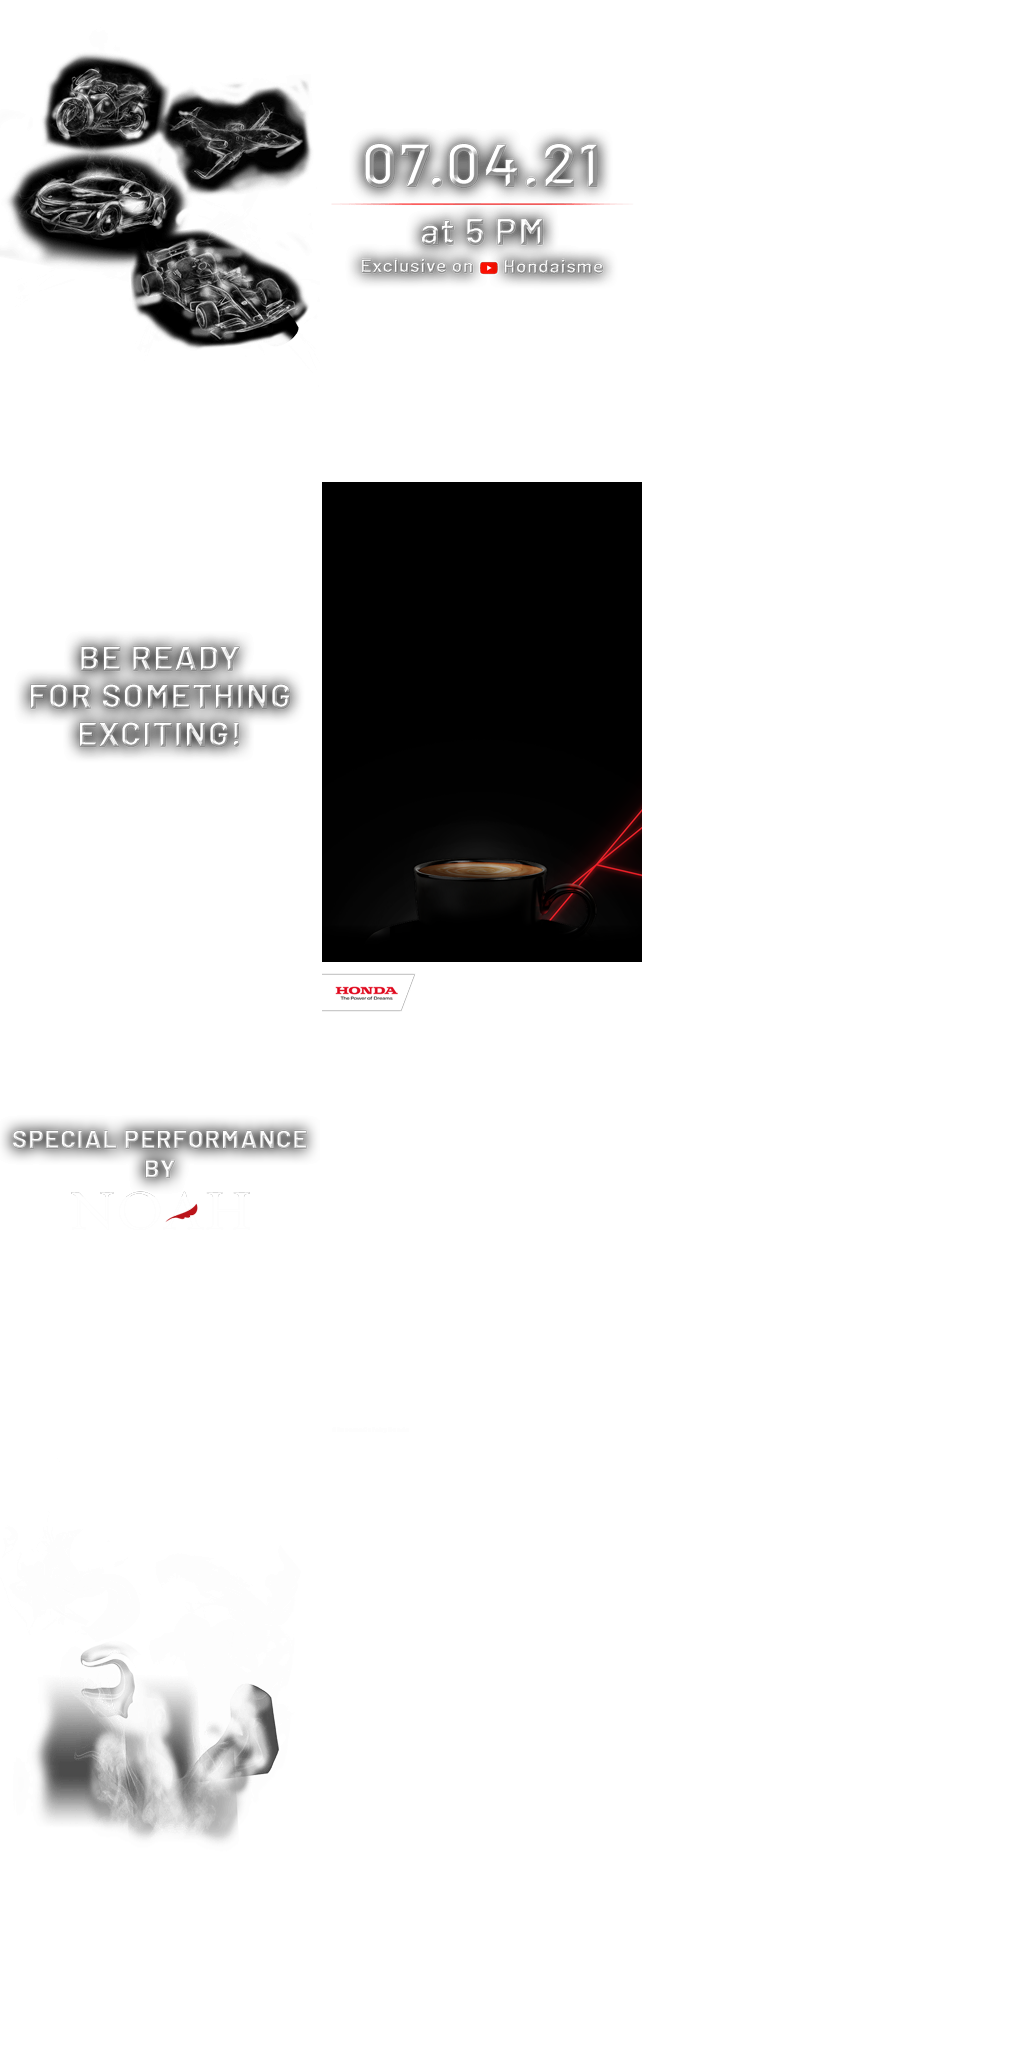
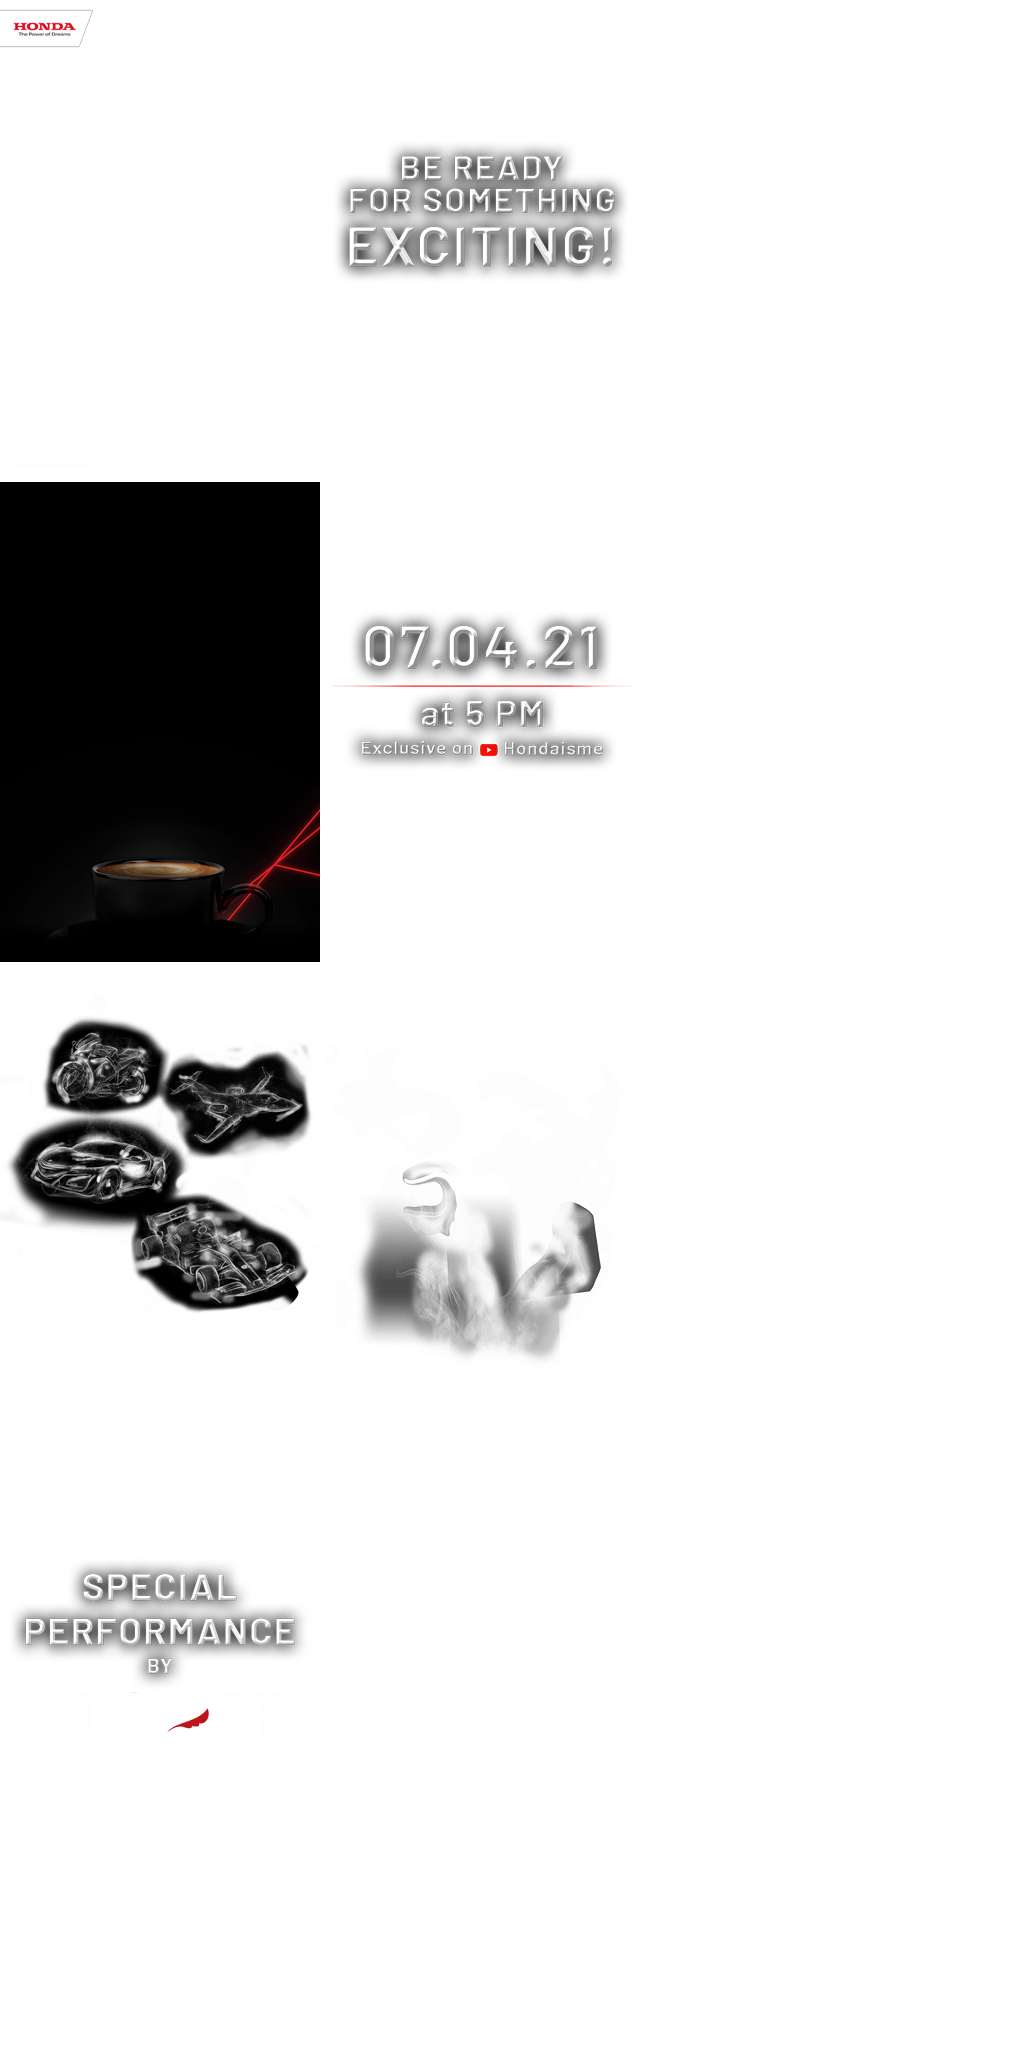
srg

diff --git a/m.idntimes/megabillboard/honda-april/src/320x480/320x480.js b/m.idntimes/megabillboard/honda-april/src/320x480/320x480.js
@@ -3,7 +3,7 @@
 var p; // shortcut to reference prototypes
 var lib={};var ss={};var img={};
 lib.ssMetadata = [
-		{name:"320x480_atlas_", frames: [[0,0,320,480],[0,1446,320,480],[0,482,320,480],[0,964,320,480],[322,0,320,480],[322,482,320,480],[322,964,320,480]]}
+		{name:"320x480_atlas_", frames: [[0,964,320,480],[322,964,320,480],[322,0,320,480],[0,1446,320,480],[322,482,320,480],[0,482,320,480],[0,0,320,480]]}
 ];
 
 
@@ -230,7 +230,7 @@ p.nominalBounds = new cjs.Rectangle(-160,-240,320,480);
 	// d1
 	this.instance = new lib.Tween9("synched",0);
 	this.instance.parent = this;
-	this.instance.setTransform(160.15,240.1,1.4845,1.4845,0,0,0,0.1,0.1);
+	this.instance.setTransform(160.2,240.15,1.8192,1.8192,0,0,0,0.1,0.1);
 	this.instance.alpha = 0;
 	this.instance._off = true;
 
@@ -251,7 +251,7 @@ p.nominalBounds = new cjs.Rectangle(-160,-240,320,480);
 	// c1
 	this.instance = new lib.Tween7("synched",0);
 	this.instance.parent = this;
-	this.instance.setTransform(160.2,240.15,1.433,1.433,0,0,0,0.2,0.1);
+	this.instance.setTransform(160.3,240.3,1.911,1.911,0,0,0,0.3,0.2);
 	this.instance.alpha = 0;
 	this.instance._off = true;
 
@@ -272,7 +272,7 @@ p.nominalBounds = new cjs.Rectangle(-160,-240,320,480);
 	// b1
 	this.instance = new lib.Tween5("synched",0);
 	this.instance.parent = this;
-	this.instance.setTransform(160.3,240.15,1.4552,1.4552,0,0,0,0.4,0.1);
+	this.instance.setTransform(160.3,240.35,1.8293,1.8293,0,0,0,0.4,0.2);
 	this.instance.alpha = 0;
 	this.instance._off = true;
 
@@ -498,7 +498,7 @@ p.nominalBounds = new cjs.Rectangle(-160,-240,320,480);
 	this.timeline.addTween(cjs.Tween.get(this.bg).wait(306));
 
 }).prototype = p = new cjs.MovieClip();
-p.nominalBounds = new cjs.Rectangle(82.5,123.7,315.1,472.59999999999997);
+p.nominalBounds = new cjs.Rectangle(14,21.3,451.6,677.3000000000001);
 // library properties:
 lib.properties = {
 	id: '01934EC0AA12544A8F2D7B6D4766A354',
